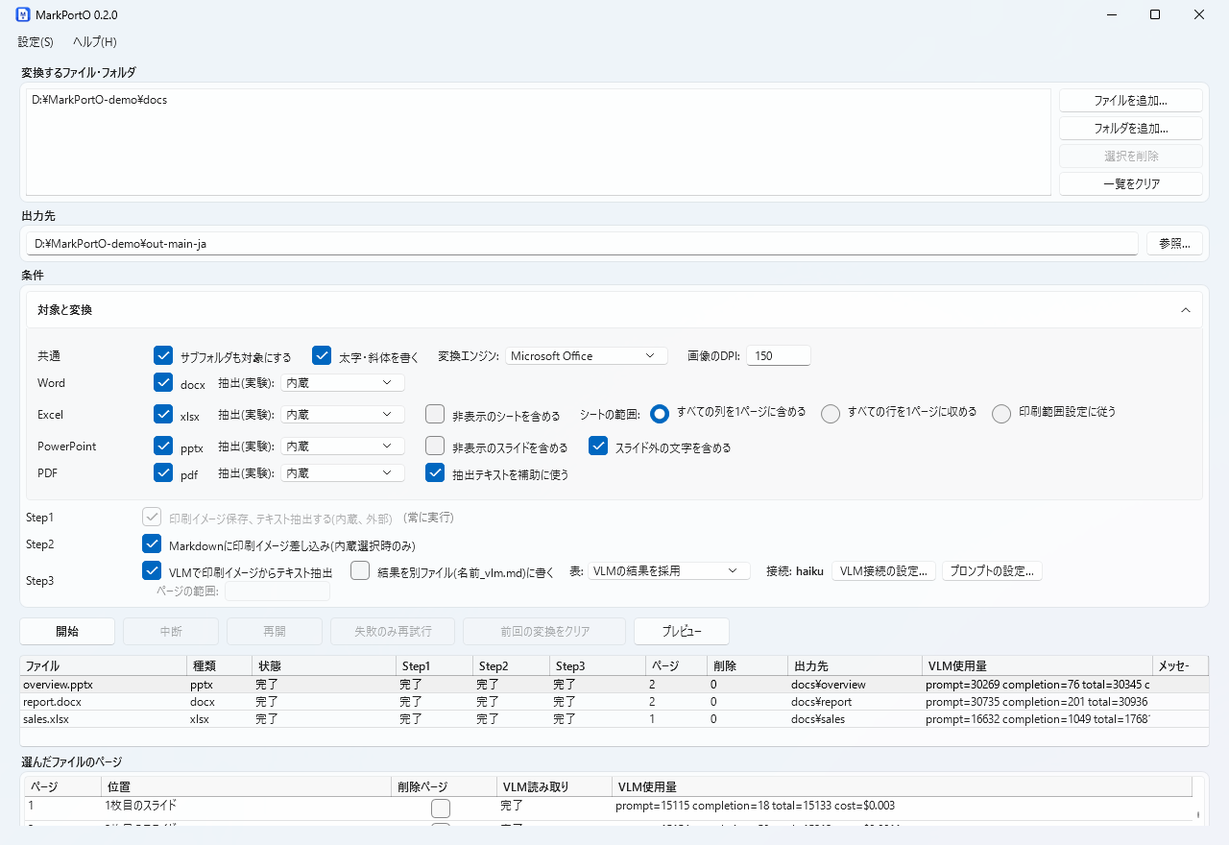
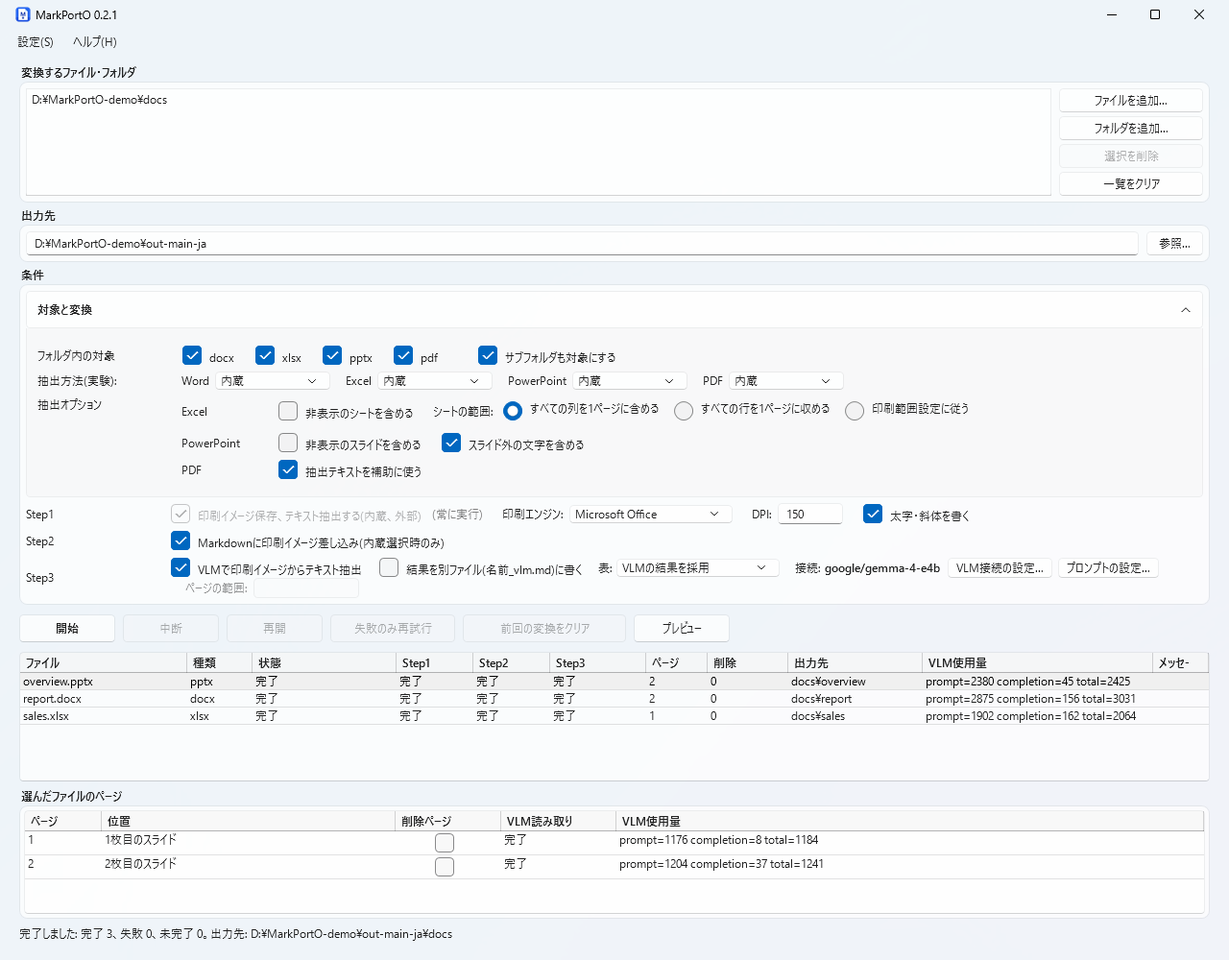
feat: the conditions are in rows of the kinds, the extractors and the options; the engine, the DPI and bold and italic are in the row of Step1; the window is taller; version 0.2.1

diff --git a/src/MarkPortO.App/MainWindow.xaml b/src/MarkPortO.App/MainWindow.xaml
@@ -18,7 +18,7 @@
 <Window x:Class="MarkPortO.App.MainWindow"
         xmlns="http://schemas.microsoft.com/winfx/2006/xaml/presentation"
         xmlns:x="http://schemas.microsoft.com/winfx/2006/xaml"
-        Icon="Assets/MarkPortO.ico" Title="MarkPortO" Height="880" Width="1280" MinHeight="640" MinWidth="780">
+        Icon="Assets/MarkPortO.ico" Title="MarkPortO" Height="1000" Width="1280" MinHeight="640" MinWidth="780">
   <DockPanel>
     <!-- Menu bar (FR-032) -->
     <Menu DockPanel.Dock="Top">
@@ -121,80 +121,75 @@
           <!-- The folded part itself: the Expander shows it when it is open. -->
           <Grid Margin="0,6,0,0">
           <Grid.ColumnDefinitions>
-            <ColumnDefinition Width="120" />
+            <ColumnDefinition Width="150" />
             <ColumnDefinition Width="*" />
           </Grid.ColumnDefinitions>
           <Grid.RowDefinitions>
             <RowDefinition Height="Auto" />
             <RowDefinition Height="Auto" />
             <RowDefinition Height="Auto" />
-            <RowDefinition Height="Auto" />
-            <RowDefinition Height="Auto" />
           </Grid.RowDefinitions>
 
-          <!-- Common to every kind of file -->
-          <TextBlock Grid.Row="0" Text="{DynamicResource Main_Cond_Common}" VerticalAlignment="Center" Margin="0,0,0,6" IsEnabled="{Binding CanEditNewRun}" />
+          <!-- The kinds of file that are converted when a folder is given -->
+          <TextBlock Grid.Row="0" Text="{DynamicResource Main_Cond_Targets}" VerticalAlignment="Center" Margin="0,0,0,6" IsEnabled="{Binding CanEditNewRun}" />
           <StackPanel Grid.Row="0" Grid.Column="1" Orientation="Horizontal" Margin="0,0,0,6" IsEnabled="{Binding CanEditNewRun}" ToolTip="{Binding LockedTip}" ToolTipService.ShowOnDisabled="True">
-            <CheckBox Content="{DynamicResource Main_Cond_Recurse}" IsChecked="{Binding Recurse}" VerticalAlignment="Center" Margin="0,0,20,0" />
-            <CheckBox Content="{DynamicResource Main_Cond_Emphasis}" IsChecked="{Binding Emphasis}" ToolTip="{DynamicResource Main_Cond_EmphasisTip}" VerticalAlignment="Center" Margin="0,0,20,0" />
-            <TextBlock Text="{DynamicResource Main_Cond_Engine}" VerticalAlignment="Center" Margin="0,0,6,0" />
-            <ComboBox x:Name="EngineBox" ItemsSource="{Binding EngineChoices}" DisplayMemberPath="Name" SelectedValuePath="Kind"
-                      SelectedValue="{Binding SelectedEngine}" Width="170" Margin="0,0,20,0" />
-            <TextBlock Text="{DynamicResource Main_Cond_Dpi}" VerticalAlignment="Center" Margin="0,0,6,0" />
-            <TextBox x:Name="DpiBox" Text="{Binding DpiText, UpdateSourceTrigger=LostFocus}" Width="68" VerticalContentAlignment="Center" />
+            <CheckBox x:Name="DocxBox" Content="docx" IsChecked="{Binding TypeDocx}" ToolTip="{DynamicResource Main_Cond_TypesNote}" VerticalAlignment="Center" Margin="0,0,20,0" />
+            <CheckBox Content="xlsx" IsChecked="{Binding TypeXlsx}" ToolTip="{DynamicResource Main_Cond_TypesNote}" VerticalAlignment="Center" Margin="0,0,20,0" />
+            <CheckBox Content="pptx" IsChecked="{Binding TypePptx}" ToolTip="{DynamicResource Main_Cond_TypesNote}" VerticalAlignment="Center" Margin="0,0,20,0" />
+            <CheckBox Content="pdf" IsChecked="{Binding TypePdf}" ToolTip="{DynamicResource Main_Cond_TypesNote}" VerticalAlignment="Center" Margin="0,0,40,0" />
+            <CheckBox Content="{DynamicResource Main_Cond_Recurse}" IsChecked="{Binding Recurse}" VerticalAlignment="Center" />
           </StackPanel>
 
-          <!-- One row for each kind of file: whether it is converted, and the options that are only for it -->
-          <TextBlock Grid.Row="1" Text="{DynamicResource Main_Cond_RowDocx}" VerticalAlignment="Center" Margin="0,0,0,6" IsEnabled="{Binding CanEditNewRun}" />
-          <StackPanel Grid.Row="1" Grid.Column="1" Orientation="Horizontal" Margin="0,0,0,6" IsEnabled="{Binding CanEditNewRun}" ToolTip="{Binding LockedTip}" ToolTipService.ShowOnDisabled="True">
-            <CheckBox x:Name="DocxBox" Content="docx" IsChecked="{Binding TypeDocx}" ToolTip="{DynamicResource Main_Cond_TypesNote}" VerticalAlignment="Center" Width="68" />
-            <StackPanel Orientation="Horizontal" Visibility="{Binding ExtractorVisibility}" Margin="0,0,20,0">
-              <TextBlock Text="{DynamicResource Main_Cond_Extractor}" VerticalAlignment="Center" Margin="0,0,6,0" ToolTip="{DynamicResource Main_Cond_ExtractorTip}" />
-              <ComboBox ItemsSource="{Binding ExtractorChoices}" DisplayMemberPath="Display" SelectedValuePath="Name" SelectedValue="{Binding ExtractorDocx}" Width="130" />
-            </StackPanel>
+          <!-- Who extracts the text of each kind (experimental). Shown when an extractor is registered. -->
+          <TextBlock Grid.Row="1" Text="{DynamicResource Main_Cond_Extractor}" VerticalAlignment="Center" Margin="0,0,0,6" ToolTip="{DynamicResource Main_Cond_ExtractorTip}"
+                     Visibility="{Binding ExtractorVisibility}" IsEnabled="{Binding CanEditNewRun}" />
+          <StackPanel Grid.Row="1" Grid.Column="1" Orientation="Horizontal" Margin="0,0,0,6" Visibility="{Binding ExtractorVisibility}"
+                      IsEnabled="{Binding CanEditNewRun}" ToolTip="{Binding LockedTip}" ToolTipService.ShowOnDisabled="True">
+            <TextBlock Text="{DynamicResource Main_Cond_RowDocx}" VerticalAlignment="Center" Margin="0,0,6,0" />
+            <ComboBox ItemsSource="{Binding ExtractorChoices}" DisplayMemberPath="Display" SelectedValuePath="Name" SelectedValue="{Binding ExtractorDocx}" Width="120" Margin="0,0,16,0" />
+            <TextBlock Text="{DynamicResource Main_Cond_RowXlsx}" VerticalAlignment="Center" Margin="0,0,6,0" />
+            <ComboBox ItemsSource="{Binding ExtractorChoices}" DisplayMemberPath="Display" SelectedValuePath="Name" SelectedValue="{Binding ExtractorXlsx}" Width="120" Margin="0,0,16,0" />
+            <TextBlock Text="{DynamicResource Main_Cond_RowPptx}" VerticalAlignment="Center" Margin="0,0,6,0" />
+            <ComboBox ItemsSource="{Binding ExtractorChoices}" DisplayMemberPath="Display" SelectedValuePath="Name" SelectedValue="{Binding ExtractorPptx}" Width="120" Margin="0,0,16,0" />
+            <TextBlock Text="{DynamicResource Main_Cond_RowPdf}" VerticalAlignment="Center" Margin="0,0,6,0" />
+            <ComboBox ItemsSource="{Binding ExtractorChoices}" DisplayMemberPath="Display" SelectedValuePath="Name" SelectedValue="{Binding ExtractorPdf}" Width="120" />
           </StackPanel>
 
-          <TextBlock Grid.Row="2" Text="{DynamicResource Main_Cond_RowXlsx}" VerticalAlignment="Center" Margin="0,0,0,6" IsEnabled="{Binding CanEditNewRun}" />
-          <StackPanel Grid.Row="2" Grid.Column="1" Orientation="Horizontal" Margin="0,0,0,6" IsEnabled="{Binding CanEditNewRun}" ToolTip="{Binding LockedTip}" ToolTipService.ShowOnDisabled="True">
-            <CheckBox Content="xlsx" IsChecked="{Binding TypeXlsx}" ToolTip="{DynamicResource Main_Cond_TypesNote}" VerticalAlignment="Center" Width="68" />
-            <StackPanel Orientation="Horizontal" Visibility="{Binding ExtractorVisibility}" Margin="0,0,20,0">
-              <TextBlock Text="{DynamicResource Main_Cond_Extractor}" VerticalAlignment="Center" Margin="0,0,6,0" ToolTip="{DynamicResource Main_Cond_ExtractorTip}" />
-              <ComboBox ItemsSource="{Binding ExtractorChoices}" DisplayMemberPath="Display" SelectedValuePath="Name" SelectedValue="{Binding ExtractorXlsx}" Width="130" />
-            </StackPanel>
-            <StackPanel Orientation="Horizontal" IsEnabled="{Binding XlsxOptionsEnabled}" ToolTip="{Binding XlsxOptionsTip}" ToolTipService.ShowOnDisabled="True">
+          <!-- The options of each kind. Always shown (a file that is given is converted whatever the boxes say); grey when an extractor is chosen.
+               Word has none, so it has no row. -->
+          <TextBlock Grid.Row="2" Text="{DynamicResource Main_Cond_OptionsRow}" VerticalAlignment="Top" Margin="0,2,0,6" IsEnabled="{Binding CanEditNewRun}" />
+          <Grid Grid.Row="2" Grid.Column="1" IsEnabled="{Binding CanEditNewRun}" ToolTip="{Binding LockedTip}" ToolTipService.ShowOnDisabled="True">
+            <Grid.ColumnDefinitions>
+              <ColumnDefinition Width="100" />
+              <ColumnDefinition Width="*" />
+            </Grid.ColumnDefinitions>
+            <Grid.RowDefinitions>
+              <RowDefinition Height="Auto" />
+              <RowDefinition Height="Auto" />
+              <RowDefinition Height="Auto" />
+            </Grid.RowDefinitions>
+
+            <TextBlock Grid.Row="0" Text="{DynamicResource Main_Cond_RowXlsx}" VerticalAlignment="Center" Margin="0,0,0,6" IsEnabled="{Binding XlsxOptionsEnabled}" />
+            <StackPanel Grid.Row="0" Grid.Column="1" Orientation="Horizontal" Margin="0,0,0,6" IsEnabled="{Binding XlsxOptionsEnabled}" ToolTip="{Binding XlsxOptionsTip}" ToolTipService.ShowOnDisabled="True">
               <CheckBox Content="{DynamicResource Main_Cond_HiddenSheets}" IsChecked="{Binding IncludeHiddenSheets}" VerticalAlignment="Center" Margin="0,0,20,0" />
               <TextBlock Text="{DynamicResource Main_Cond_Excel}" VerticalAlignment="Center" Margin="0,0,10,0" />
               <RadioButton GroupName="ExcelRange" Content="{DynamicResource Main_Cond_ExcelColumns}" IsChecked="{Binding ExcelColumns}" ToolTip="{DynamicResource Main_Cond_ExcelColumnsTip}" VerticalAlignment="Center" Margin="0,0,16,0" />
               <RadioButton GroupName="ExcelRange" Content="{DynamicResource Main_Cond_ExcelRows}" IsChecked="{Binding ExcelRows}" ToolTip="{DynamicResource Main_Cond_ExcelRowsTip}" VerticalAlignment="Center" Margin="0,0,16,0" />
               <RadioButton GroupName="ExcelRange" Content="{DynamicResource Main_Cond_ExcelPrintArea}" IsChecked="{Binding ExcelPrintArea}" ToolTip="{DynamicResource Main_Cond_ExcelPrintAreaTip}" VerticalAlignment="Center" />
             </StackPanel>
-          </StackPanel>
 
-          <TextBlock Grid.Row="3" Text="{DynamicResource Main_Cond_RowPptx}" VerticalAlignment="Center" Margin="0,0,0,6" IsEnabled="{Binding CanEditNewRun}" />
-          <StackPanel Grid.Row="3" Grid.Column="1" Orientation="Horizontal" Margin="0,0,0,6" IsEnabled="{Binding CanEditNewRun}" ToolTip="{Binding LockedTip}" ToolTipService.ShowOnDisabled="True">
-            <CheckBox Content="pptx" IsChecked="{Binding TypePptx}" ToolTip="{DynamicResource Main_Cond_TypesNote}" VerticalAlignment="Center" Width="68" />
-            <StackPanel Orientation="Horizontal" Visibility="{Binding ExtractorVisibility}" Margin="0,0,20,0">
-              <TextBlock Text="{DynamicResource Main_Cond_Extractor}" VerticalAlignment="Center" Margin="0,0,6,0" ToolTip="{DynamicResource Main_Cond_ExtractorTip}" />
-              <ComboBox ItemsSource="{Binding ExtractorChoices}" DisplayMemberPath="Display" SelectedValuePath="Name" SelectedValue="{Binding ExtractorPptx}" Width="130" />
-            </StackPanel>
-            <StackPanel Orientation="Horizontal" IsEnabled="{Binding PptxOptionsEnabled}" ToolTip="{Binding PptxOptionsTip}" ToolTipService.ShowOnDisabled="True">
+            <TextBlock Grid.Row="1" Text="{DynamicResource Main_Cond_RowPptx}" VerticalAlignment="Center" Margin="0,0,0,6" IsEnabled="{Binding PptxOptionsEnabled}" />
+            <StackPanel Grid.Row="1" Grid.Column="1" Orientation="Horizontal" Margin="0,0,0,6" IsEnabled="{Binding PptxOptionsEnabled}" ToolTip="{Binding PptxOptionsTip}" ToolTipService.ShowOnDisabled="True">
               <CheckBox Content="{DynamicResource Main_Cond_HiddenSlides}" IsChecked="{Binding IncludeHiddenSlides}" VerticalAlignment="Center" Margin="0,0,20,0" />
               <CheckBox Content="{DynamicResource Main_Cond_OffSlide}" IsChecked="{Binding IncludeOffSlideText}" ToolTip="{DynamicResource Main_Cond_OffSlideTip}" VerticalAlignment="Center" />
             </StackPanel>
-          </StackPanel>
 
-          <TextBlock Grid.Row="4" Text="{DynamicResource Main_Cond_RowPdf}" VerticalAlignment="Center" Margin="0,0,0,6" IsEnabled="{Binding CanEditNewRun}" />
-          <StackPanel Grid.Row="4" Grid.Column="1" Orientation="Horizontal" Margin="0,0,0,6" IsEnabled="{Binding CanEditNewRun}" ToolTip="{Binding LockedTip}" ToolTipService.ShowOnDisabled="True">
-            <CheckBox Content="pdf" IsChecked="{Binding TypePdf}" ToolTip="{DynamicResource Main_Cond_TypesNote}" VerticalAlignment="Center" Width="68" />
-            <StackPanel Orientation="Horizontal" Visibility="{Binding ExtractorVisibility}" Margin="0,0,20,0">
-              <TextBlock Text="{DynamicResource Main_Cond_Extractor}" VerticalAlignment="Center" Margin="0,0,6,0" ToolTip="{DynamicResource Main_Cond_ExtractorTip}" />
-              <ComboBox ItemsSource="{Binding ExtractorChoices}" DisplayMemberPath="Display" SelectedValuePath="Name" SelectedValue="{Binding ExtractorPdf}" Width="130" />
-            </StackPanel>
-            <StackPanel Orientation="Horizontal" IsEnabled="{Binding PdfOptionsEnabled}" ToolTip="{Binding PdfOptionsTip}" ToolTipService.ShowOnDisabled="True">
+            <TextBlock Grid.Row="2" Text="{DynamicResource Main_Cond_RowPdf}" VerticalAlignment="Center" Margin="0,0,0,6" IsEnabled="{Binding PdfOptionsEnabled}" />
+            <StackPanel Grid.Row="2" Grid.Column="1" Orientation="Horizontal" Margin="0,0,0,6" IsEnabled="{Binding PdfOptionsEnabled}" ToolTip="{Binding PdfOptionsTip}" ToolTipService.ShowOnDisabled="True">
               <CheckBox Content="{DynamicResource Main_Cond_PdfText}" IsChecked="{Binding UsePdfText}" ToolTip="{DynamicResource Main_Cond_PdfTextTip}" VerticalAlignment="Center" Margin="0,0,20,0" />
               <TextBlock Text="{DynamicResource Main_Cond_PdfHint}" Foreground="{DynamicResource SubtleTextBrush}" VerticalAlignment="Center" Visibility="{Binding PdfHintVisibility}" />
             </StackPanel>
-          </StackPanel>
+          </Grid>
 
           </Grid>
           </Expander>
@@ -202,7 +197,7 @@
           <!-- Steps: always shown, also when the part above is folded (FR-102) -->
           <Grid>
           <Grid.ColumnDefinitions>
-            <ColumnDefinition Width="120" />
+            <ColumnDefinition Width="150" />
             <ColumnDefinition Width="*" />
           </Grid.ColumnDefinitions>
           <Grid.RowDefinitions>
@@ -213,10 +208,19 @@
 
           <!-- Step1 always runs: it is shown, and it cannot be changed (FR-039) -->
           <TextBlock Grid.Row="0" Text="Step1" VerticalAlignment="Center" Margin="0,0,0,6" />
-          <StackPanel Grid.Row="0" Grid.Column="1" Orientation="Horizontal" Margin="0,0,0,6">
+          <WrapPanel Grid.Row="0" Grid.Column="1" Margin="0,0,0,6">
             <CheckBox Content="{DynamicResource Main_Cond_Step1}" IsChecked="True" IsEnabled="False" VerticalAlignment="Center" Margin="0,0,10,0" />
-            <TextBlock Text="{DynamicResource Main_Cond_Step1Always}" VerticalAlignment="Center" Foreground="{DynamicResource SubtleTextBrush}" />
-          </StackPanel>
+            <TextBlock Text="{DynamicResource Main_Cond_Step1Always}" VerticalAlignment="Center" Foreground="{DynamicResource SubtleTextBrush}" Margin="0,0,20,0" />
+            <!-- The engine and the size of the print images, and the bold and italic of the text, are settings of Step1 -->
+            <StackPanel Orientation="Horizontal" IsEnabled="{Binding CanEditNewRun}" ToolTip="{Binding LockedTip}" ToolTipService.ShowOnDisabled="True">
+              <TextBlock Text="{DynamicResource Main_Cond_Engine}" VerticalAlignment="Center" Margin="0,0,6,0" />
+              <ComboBox x:Name="EngineBox" ItemsSource="{Binding EngineChoices}" DisplayMemberPath="Name" SelectedValuePath="Kind"
+                        SelectedValue="{Binding SelectedEngine}" Width="170" Margin="0,0,20,0" />
+              <TextBlock Text="{DynamicResource Main_Cond_Dpi}" VerticalAlignment="Center" Margin="0,0,6,0" />
+              <TextBox x:Name="DpiBox" Text="{Binding DpiText, UpdateSourceTrigger=LostFocus}" Width="68" VerticalContentAlignment="Center" Margin="0,0,20,0" />
+              <CheckBox Content="{DynamicResource Main_Cond_Emphasis}" IsChecked="{Binding Emphasis}" ToolTip="{DynamicResource Main_Cond_EmphasisTip}" VerticalAlignment="Center" />
+            </StackPanel>
+          </WrapPanel>
 
           <TextBlock Grid.Row="1" Text="Step2" VerticalAlignment="Center" Margin="0,0,0,6" />
           <CheckBox Grid.Row="1" Grid.Column="1" Content="{DynamicResource Main_Cond_Step2}" IsChecked="{Binding Step2}" IsEnabled="{Binding CanEdit}" VerticalAlignment="Center" Margin="0,0,0,6" />

diff --git a/src/MarkPortO.App/Resources/Strings.ja.xaml b/src/MarkPortO.App/Resources/Strings.ja.xaml
@@ -42,7 +42,8 @@
   <sys:String x:Key="Main_Browse">参照…</sys:String>
   <sys:String x:Key="Main_Conditions">条件</sys:String>
   <sys:String x:Key="Main_Cond_TypesNote">(フォルダを指定したときに使います)</sys:String>
-  <sys:String x:Key="Main_Cond_Common">共通</sys:String>
+  <sys:String x:Key="Main_Cond_Targets">フォルダ内の対象</sys:String>
+  <sys:String x:Key="Main_Cond_OptionsRow">抽出オプション</sys:String>
   <sys:String x:Key="Main_Cond_RowDocx">Word</sys:String>
   <sys:String x:Key="Main_Cond_RowXlsx">Excel</sys:String>
   <sys:String x:Key="Main_Cond_RowPptx">PowerPoint</sys:String>
@@ -59,12 +60,12 @@
   <sys:String x:Key="Main_Cond_EmphasisTip">文中の太字を ** で、斜体を * で囲んで書きます(Word・PowerPoint・Excel)。段落(セル)の全体が太字(斜体)のもの、見出し、スライドのタイトルには付けません。</sys:String>
   <sys:String x:Key="Main_Cond_OffSlide">スライド外の文字を含める</sys:String>
   <sys:String x:Key="Main_Cond_OffSlideTip">PowerPoint: スライドの外に置いたシェイプ(メモ)の文字を、「Off-slide」の引用として書きます。スライドの画像には写りません。</sys:String>
-  <sys:String x:Key="Main_Cond_Engine">変換エンジン:</sys:String>
-  <sys:String x:Key="Main_Cond_Dpi">画像のDPI:</sys:String>
+  <sys:String x:Key="Main_Cond_Engine">印刷エンジン:</sys:String>
+  <sys:String x:Key="Main_Cond_Dpi">DPI:</sys:String>
   <sys:String x:Key="Main_Cond_Step1">印刷イメージ保存、テキスト抽出する(内蔵、外部)</sys:String>
   <sys:String x:Key="Main_Cond_Step1Always">(常に実行)</sys:String>
   <sys:String x:Key="Main_Cond_Step2">Markdownに印刷イメージ差し込み(内蔵選択時のみ)</sys:String>
-  <sys:String x:Key="Main_Cond_Extractor">抽出(実験):</sys:String>
+  <sys:String x:Key="Main_Cond_Extractor">抽出方法(実験):</sys:String>
   <sys:String x:Key="Main_Cond_ExtractorBuiltIn">内蔵</sys:String>
   <sys:String x:Key="Main_Cond_ExtractorTip">Markdownへの抽出を、settings.json に登録した外部コマンドに任せます(実験機能)。ページの区切りはなくなり、VLMの結果は別ファイルになります。</sys:String>
   <sys:String x:Key="Ext_Title">抽出コマンドの設定(実験)</sys:String>

diff --git a/src/MarkPortO.App/Resources/Strings.en.xaml b/src/MarkPortO.App/Resources/Strings.en.xaml
@@ -42,7 +42,8 @@
   <sys:String x:Key="Main_Browse">Browse…</sys:String>
   <sys:String x:Key="Main_Conditions">Conditions</sys:String>
   <sys:String x:Key="Main_Cond_TypesNote">(used when a folder is given)</sys:String>
-  <sys:String x:Key="Main_Cond_Common">Common</sys:String>
+  <sys:String x:Key="Main_Cond_Targets">Kinds in a folder</sys:String>
+  <sys:String x:Key="Main_Cond_OptionsRow">Extraction options</sys:String>
   <sys:String x:Key="Main_Cond_RowDocx">Word</sys:String>
   <sys:String x:Key="Main_Cond_RowXlsx">Excel</sys:String>
   <sys:String x:Key="Main_Cond_RowPptx">PowerPoint</sys:String>
@@ -59,8 +60,8 @@
   <sys:String x:Key="Main_Cond_EmphasisTip">Bold text in a line is written between ** and italic text between * (Word, PowerPoint, Excel). A paragraph (a cell) that is all in bold (italic), a heading and the title of a slide are not marked.</sys:String>
   <sys:String x:Key="Main_Cond_OffSlide">Include text outside the slide</sys:String>
   <sys:String x:Key="Main_Cond_OffSlideTip">PowerPoint: the text of the shapes that lie outside the slide (memos on the pasteboard) is written as a quote "Off-slide". They are not in the image of the slide.</sys:String>
-  <sys:String x:Key="Main_Cond_Engine">Engine:</sys:String>
-  <sys:String x:Key="Main_Cond_Dpi">Image DPI:</sys:String>
+  <sys:String x:Key="Main_Cond_Engine">Print engine:</sys:String>
+  <sys:String x:Key="Main_Cond_Dpi">DPI:</sys:String>
   <sys:String x:Key="Main_Cond_Step1">Save print images, extract text (built-in, external)</sys:String>
   <sys:String x:Key="Main_Cond_Step1Always">(always)</sys:String>
   <sys:String x:Key="Main_Cond_Step2">Put print images into the Markdown (built-in only)</sys:String>

diff --git a/tests/MarkPortO.Core.Tests/Settings/ConditionSummaryTests.cs b/tests/MarkPortO.Core.Tests/Settings/ConditionSummaryTests.cs
@@ -51,17 +51,17 @@ public class ConditionSummaryTests
     [Fact]
     public void TheChoices_AreInOneLine_InJapanese()
     {
-        Assert.Equal("docx xlsx pptx pdf | サブフォルダ | LibreOffice | 150 DPI", Build(Settings(), "ja"));
+        Assert.Equal("docx xlsx pptx pdf | サブフォルダ", Build(Settings(), "ja"));
     }
 
     [Fact]
     public void TheChoices_AreInOneLine_InEnglish()
     {
-        Assert.Equal("docx xlsx pptx pdf | Sub-folders | LibreOffice | 150 DPI", Build(Settings(), "en"));
+        Assert.Equal("docx xlsx pptx pdf | Sub-folders", Build(Settings(), "en"));
     }
 
     [Fact]
-    public void ThingsThatAreOff_AreLeftOutOrSaid()
+    public void SubFoldersThatAreOff_AreLeftOut()
     {
         var settings = Settings(s =>
         {
@@ -72,7 +72,7 @@ public class ConditionSummaryTests
             s.Input.Emphasis = false;
         });
 
-        Assert.Equal("docx pdf | Microsoft Office | 300 DPI | 太字・斜体なし", Build(settings, "ja"));
+        Assert.Equal("docx pdf", Build(settings, "ja"));
     }
 
     [Fact]
@@ -84,7 +84,7 @@ public class ConditionSummaryTests
             s.Input.Extractors.Pdf = " docling ";
         });
 
-        Assert.Equal("docx(pandoc) xlsx pptx pdf(docling) | Sub-folders | LibreOffice | 150 DPI", Build(settings, "en"));
+        Assert.Equal("docx(pandoc) xlsx pptx pdf(docling) | Sub-folders", Build(settings, "en"));
     }
 
     [Fact]
@@ -96,7 +96,17 @@ public class ConditionSummaryTests
             s.Input.Extractors.Pdf = "docling";
         });
 
-        Assert.Equal("docx | Sub-folders | LibreOffice | 150 DPI", Build(settings, "en"));
+        Assert.Equal("docx | Sub-folders", Build(settings, "en"));
+    }
+
+    [Fact]
+    public void TheEngineTheDpiAndTheEmphasis_AreNotInTheLine()
+    {
+        var line = Build(Settings(s => { s.Engine.Kind = EngineKind.Office; s.Images.Dpi = 300; s.Input.Emphasis = false; }), "ja");
+
+        Assert.DoesNotContain("Office", line, StringComparison.Ordinal);
+        Assert.DoesNotContain("DPI", line, StringComparison.Ordinal);
+        Assert.DoesNotContain("太字", line, StringComparison.Ordinal);
     }
 
     [Fact]

diff --git a/src/MarkPortO.Core/Settings/ConditionSummary.cs b/src/MarkPortO.Core/Settings/ConditionSummary.cs
@@ -19,9 +19,9 @@ using MarkPortO.Core.Localization;
 namespace MarkPortO.Core.Settings;
 
 /// <summary>
-/// The conditions of the folded part of the main window (the kinds of file with the extractor that is chosen for each, the sub-folders, the engine, the DPI, bold and italic) in one line (FR-102).
+/// The conditions of the folded part of the main window (the kinds of file with the extractor that is chosen for each, and the sub-folders) in one line (FR-102).
 /// It is shown when the part is closed, so that the choices can be seen without opening it. The steps, the connection and the page range are
-/// not in it: they are always on the screen.
+/// not in it: they are always on the screen, and so are the engine, the DPI and bold and italic (they are in the row of Step1).
 /// </summary>
 public static class ConditionSummary
 {
@@ -44,14 +44,6 @@ public static class ConditionSummary
         if (settings.Input.Recurse)
         {
             parts.Add(Loc.T("Sub-folders"));
-        }
-
-        parts.Add(settings.Engine.Kind == EngineKind.Office ? "Microsoft Office" : "LibreOffice");
-        parts.Add($"{settings.Images.Dpi} DPI");
-
-        if (!settings.Input.Emphasis)
-        {
-            parts.Add(Loc.T("No bold or italic"));
         }
 
         return string.Join(Separator, parts);

diff --git a/src/MarkPortO.App/ViewModels/MainViewModel.cs b/src/MarkPortO.App/ViewModels/MainViewModel.cs
@@ -296,11 +296,11 @@ public sealed class MainViewModel : ObservableObject, IDisposable
     public string ExtractorPdf { get => _store.Current.Input.Extractors.Pdf; set => SetExtractor(DocumentKind.Pdf, value); }
 
     // The options beside a kind are for the built-in extraction; they do nothing to the Markdown of an extractor, so they are off while one is chosen.
-    public bool XlsxOptionsEnabled => TypeXlsx && ExtractorXlsx.Length == 0;
+    public bool XlsxOptionsEnabled => ExtractorXlsx.Length == 0;
 
-    public bool PptxOptionsEnabled => TypePptx && ExtractorPptx.Length == 0;
+    public bool PptxOptionsEnabled => ExtractorPptx.Length == 0;
 
-    public bool PdfOptionsEnabled => TypePdf && ExtractorPdf.Length == 0;
+    public bool PdfOptionsEnabled => ExtractorPdf.Length == 0;
 
     public string XlsxOptionsTip => ExtractorXlsx.Length == 0 ? string.Empty : UiText.Get("Main_Cond_OptionsOffTip");
 

diff --git a/src/MarkPortO.App/MainWindow.xaml.cs b/src/MarkPortO.App/MainWindow.xaml.cs
@@ -29,6 +29,8 @@ public partial class MainWindow : Window
     public MainWindow()
     {
         InitializeComponent();
+        // The default is tall enough for the list of pages under the conditions; a small screen gets what it has.
+        Height = Math.Min(Height, SystemParameters.WorkArea.Height);
         Title = "MarkPortO " + AboutWindow.Version;
 
         _viewModel = new MainViewModel(_store, Dispatcher)

diff --git a/README.ja.md b/README.ja.md
@@ -48,7 +48,7 @@ Word・Excel・PowerPoint・PDF の文書（docx・xlsx・pptx・pdf）を、Mar
 
 ### 画面
 
-ファイルまたはフォルダを追加し（一覧へのドロップでも）、出力先を選んで、「開始」を押します。「条件」には、共通のオプション（サブフォルダ、エンジン、DPI）の行、ファイルの種類ごとの行（その種類を対象にするかと、その種類だけのオプション）、Stepの行があります。ファイルの種類と変換の部分は折りたためます（折りたたむと、選んだ内容を1行で示します。Stepは出たままです）。ファイル一覧とページ一覧は高さを分け合い、間の境目をドラッグして変えられます。1ファイルのときは「ページ範囲」（`3-5,8` のように）で、Step3で読むページを絞れます。設定は `%APPDATA%\MarkPortO\settings.json` に保存され、次回に元に戻ります。
+ファイルまたはフォルダを追加し（一覧へのドロップでも）、出力先を選んで、「開始」を押します。「条件」には、フォルダ内の対象の種類（とサブフォルダ）の行、種類ごとにだれがテキストを抽出するか（内蔵か外部コマンドか）の行、種類ごとのオプション（外部コマンドを選ぶと灰色になります）、Stepの行があります。印刷エンジン、DPI、太字・斜体は、Step1の行にあります。上の部分は折りたためます（折りたたむと、選んだ内容を1行で示します。Stepは出たままです）。ファイル一覧とページ一覧は高さを分け合い、間の境目をドラッグして変えられます。1ファイルのときは「ページ範囲」（`3-5,8` のように）で、Step3で読むページを絞れます。設定は `%APPDATA%\MarkPortO\settings.json` に保存され、次回に元に戻ります。
 
 **プレビュー**（ファイルをダブルクリック）: ページ画像・抽出テキスト・VLMの結果のうち見たいものを、横並びか縦並びで、描画かソースで見られます。「追従」は、最後に読み終えたページを表示します。ページ画像は、Ctrl+ホイールで拡大・縮小できます（Ctrl+0で100%）。ページを移したときや新しい結果が来たときも、拡大率とスクロール位置は保たれます。左右の矢印キーとマウスホイールでページを移り（ホイールは、まずページの端で止まります）、右ボタンのドラッグでスクロールできます。
 

diff --git a/README.md b/README.md
@@ -48,7 +48,7 @@ To build from source: `dotnet build MarkPortO.slnx` (.NET 10 SDK).
 
 ### Desktop app
 
-Add files or a folder (or drop them on the list), choose an output folder, and press **Start**. The **Conditions** have a row of common options (sub-folders, engine, DPI), a row for each kind of file (convert it or not, and the options only for it), and the steps. The part of the file kinds and the conversion can be folded (a line then says what is chosen; the steps stay in view). The list of files and the list of pages share the height; drag the bar between them to change it. For one file, a **page range** (like `3-5,8`) limits the pages that Step3 reads. The values are saved to `%APPDATA%\MarkPortO\settings.json` and restored at the next start.
+Add files or a folder (or drop them on the list), choose an output folder, and press **Start**. The **Conditions** have a row for the kinds of file in a folder (and sub-folders), a row for who extracts the text of each kind (built-in or an external command), the options of each kind (grey when an external command is chosen), and the steps. The engine, the DPI and bold and italic are in the row of Step1. The upper part can be folded (a line then says what is chosen; the steps stay in view). The list of files and the list of pages share the height; drag the bar between them to change it. For one file, a **page range** (like `3-5,8`) limits the pages that Step3 reads. The values are saved to `%APPDATA%\MarkPortO\settings.json` and restored at the next start.
 
 **Preview** (double-click a file): choose which of the page image, the extracted text and the VLM result to show, side by side or stacked, drawn or as source. **Follow** shows the page read last. The page image zooms with Ctrl and the wheel (Ctrl and 0 is 100%); the zoom and the scroll position are kept when the page changes or a new result arrives. Arrow keys and the mouse wheel change the page (the wheel stops at the end of a page first); dragging with the right button scrolls.
 
